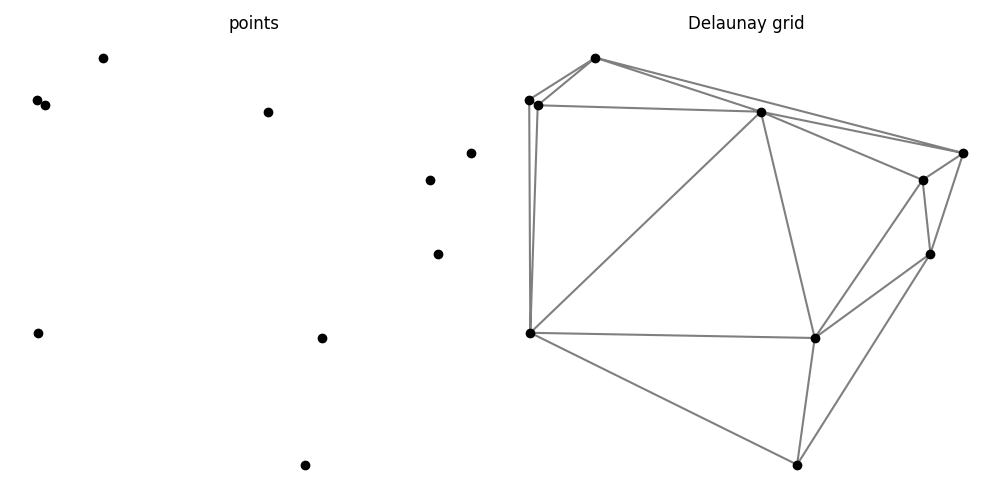
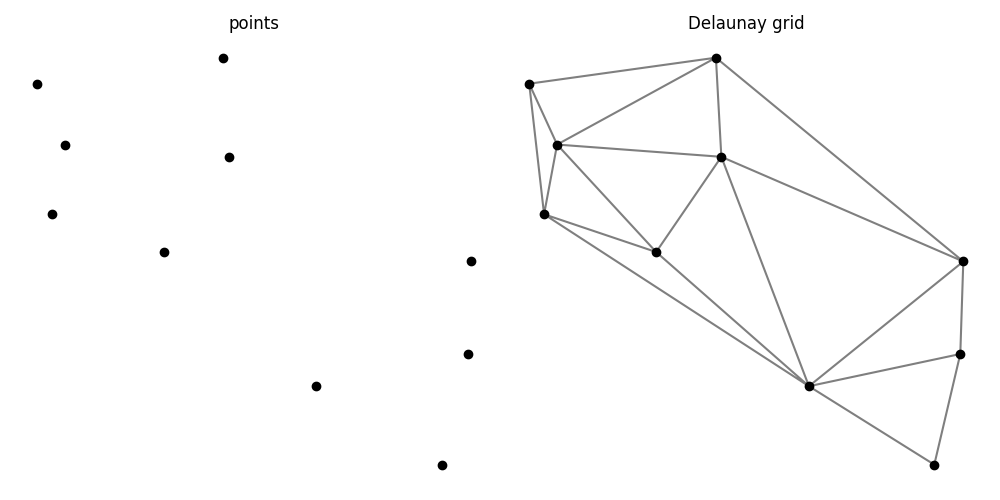
travis try 3

diff --git a/docs/source/usage.rst b/docs/source/usage.rst
@@ -70,7 +70,7 @@ edge is removed in each step. Here is a comparison with a larger set of points:
 .. ipython:: python
     :suppress:
 
-    points = np.random.rand(10, 2)
+    points = np.random.rand(60, 2)
     
     def plot2a():
     	fig, axes = plt.subplots(1, 2, figsize=(10, 5))
